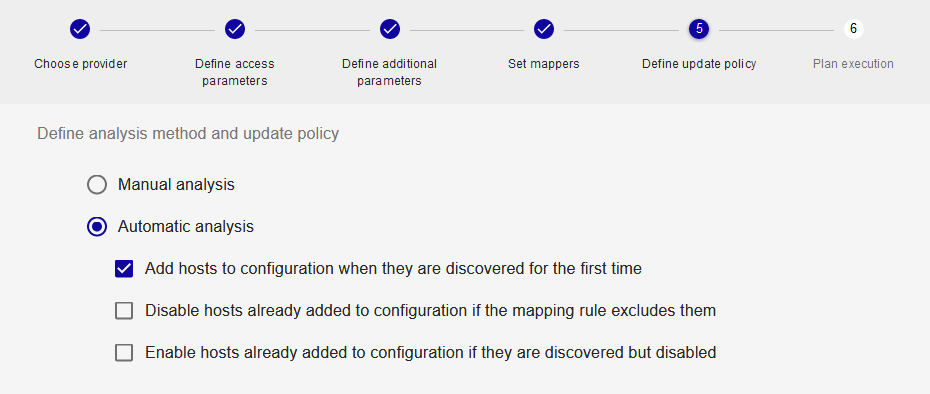
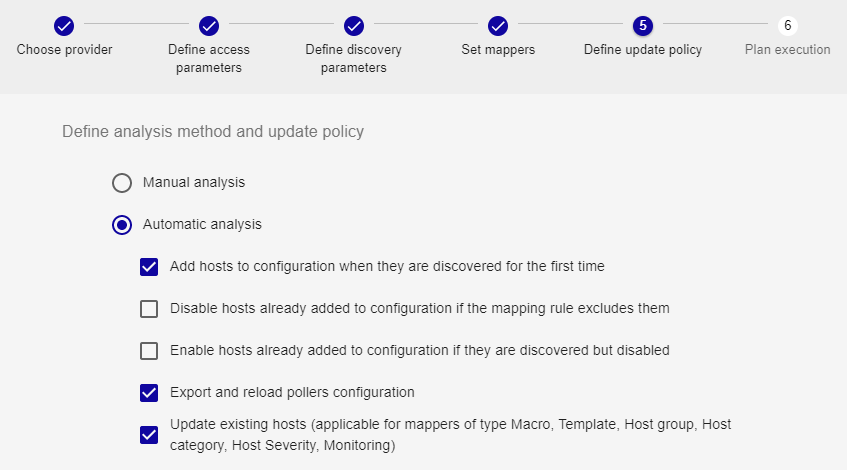
Host disco updates hosts + conf auto export

diff --git a/i18n/fr/docusaurus-plugin-content-docs/version-22.04/monitoring/discovery/hosts-discovery.md b/i18n/fr/docusaurus-plugin-content-docs/version-22.04/monitoring/discovery/hosts-discovery.md
@@ -36,7 +36,7 @@ Un assistant s'ouvre.
 
 ### Étape 2 : Définir des paramètres d'accès
 
-Définissez le serveur de supervision depuis lequel sera faite la découverte :
+Définissez le serveur de supervision depuis lequel sera faite la découverte (celui-ci peut être surchargé à l'aide de [modificateurs](#comment-utiliser-les-modificateurs)) :
 
 ![image](../../assets/monitoring/discovery/host-discovery-wizard-step-2.png)
 
@@ -62,20 +62,21 @@ ressemblerait le résultat de la découverte :
 
 ### Étape 5 : Définir les politiques d'analyse et de mise à jour
 
-- **Analyse manuelle** : Une fois la tâche de découverte exécutée, dans la liste des hôtes découverts, l'utilisateur choisira manuellement quels 
-    hôtes ajouter à la page **Configuration > Hôtes > Hôtes** (voir [Analyser le résultat d'une tâche de découverte](#analyser-le-résultat-dune-tâche-de-découverte)).
+- **Analyse manuelle** : Une fois la tâche de découverte exécutée, dans la liste des hôtes découverts,
+l'utilisateur choisira manuellement quels hôtes ajouter à la page **Configuration > Hôtes > Hôtes**
+(voir [Analyser le résultat d'une tâche de découverte](#analyser-le-résultat-dune-tâche-de-découverte)).
 
-- **Analyse automatique** : L'analyse traitera le résultat automatiquement selon l'option sélectionnée (au moins une option doit être cochée) :
+- **Analyse automatique** : L'analyse traitera le résultat automatiquement selon l'option sélectionnée (au moins une option parmi les 3 premières doit être cochée) :
 
     - **Ajouter les hôtes à la configuration quand ils sont découverts pour la
           première fois** : tous les hôtes détectés pour la première fois seront créés automatiquement dans 
           la page **Configuration > Hôtes > Hôtes**.
 
     - **Désactiver les hôtes déjà ajoutés à la configuration si la règle de
-          modification les exclut** : les ressources qui ont été ajoutées à un moment seront désactivées 
-          dans la configuration Centreon s'ils correspondent à une nouvelle règle d'exclusion.
+          modification les exclut** : les hôtes déjà supervisés seront désactivés
+          s'ils correspondent à une nouvelle règle d'exclusion lorsque la tâche de découverte est exécutée à nouveau.
 
-        >Le fait que des hôtes soient non découverts (ou plus découverts) ne
+        > Le fait que des hôtes soient non découverts (ou plus découverts) ne
         > désactivera pas les hôtes dans la configuration Centreon. Seuls les hôtes
         > découverts et dans le même temps exclus seront désactivés (voir
         > modificateur [exclusion](#exclusion)).
@@ -83,9 +84,13 @@ ressemblerait le résultat de la découverte :
     - **Activer les hôtes déjà ajoutés à la configuration si ils sont découverts
           mais désactivés** :  les hôtes déjà ajoutés à la configuration mais désactivés seront réactivés
 
+    - **Exporter et recharger la configuration des collecteurs** : une fois les hôtes créés ou mis à jour, [la configuration sera exportée](../monitoring-servers/deploying-a-configuration.md) automatiquement, ce qui veut dire que les hôtes seront supervisés ou mis à jour directement, sans devoir intervenir manuellement.
+
+    - **Modifier les hôtes existants** : si vous modifiez les modificateurs et exéctuez la tâche à nouveau, les hôtes existants seront mis à jour (voir [Éditer une tâche de découverte](#éditer-une-tâche-de-découverte)).
+
         ![image](../../assets/monitoring/discovery/host-discovery-wizard-step-5-2.png)
 
-        Voir l'[exemple ci-dessous](#exemples) pour mieux comprendre le fonctionnement de ces options.
+        Voir l'[exemple ci-dessous](#exemples) pour mieux comprendre le fonctionnement des 3 premières options.
 
 ### Étape 6 : Définir l'exécution
 
@@ -117,7 +122,7 @@ ressemblerait le résultat de la découverte :
 
         ![image](../../assets/monitoring/discovery/host-discovery-wizard-step-6-minute.png)
 
-Cliquez sur **TERMINER** à la dernière étape de l'assistant pour ajouter et planifier la tâche. La tâche apparaît dans la liste des tâches de découverte. Voir [Analyser le résultat d'une tâche de découverte](#analyser-le-résultat-dune-tâche-de-découverte).
+Cliquez sur **TERMINER** à la dernière étape de l'assistant pour créer la tâche et l'exécuter ou la planifier. La tâche apparaît dans la liste des tâches de découverte. Voir [Analyser le résultat d'une tâche de découverte](#analyser-le-résultat-dune-tâche-de-découverte).
 
 ## Gérer les tâches de découverte
 
@@ -147,12 +152,10 @@ Plusieurs actions peuvent être réalisées sur les tâches :
 | Icône                                                                          | Action                                                                                                                     |
 |--------------------------------------------------------------------------------|----------------------------------------------------------------------------------------------------------------------------|
 | ![image](../../assets/monitoring/discovery/host-discovery-force-execution.png) | **Forcer l'exécution** : réexécuter une tâche                                                                              |
-| ![image](../../assets/monitoring/discovery/host-discovery-edit.png)            | Éditer une tâche                                                                                                           |
 | ![image](../../assets/monitoring/discovery/host-discovery-delete.png)          | Supprimer une tâche. Seule la tâche sera supprimée : les hôtes ayant déjà été ajoutés à la configuration seront conservés. |
 | ![image](../../assets/monitoring/discovery/host-discovery-pause.png)           | Mettre en pause une tâche planifiée                                                                                        |
 | ![image](../../assets/monitoring/discovery/host-discovery-resume.png)          | Reprendre une tâche mise en pause                                                                                          |
 | ![image](../../assets/monitoring/discovery/host-discovery-goto-results.png)    | accéder aux résultats de la tâche de découverte                                                                            |
-
 
 ## Analyser le résultat d'une tâche de découverte
 
@@ -160,14 +163,16 @@ Plusieurs actions peuvent être réalisées sur les tâches :
 
     ![image](../../assets/monitoring/discovery/host-discovery-hosts-listing.png)
 
-2. Si vous le souhaitez, vous pouvez éditer les [modificateurs](#comment-utiliser-les-modificateurs) liés à la tâche en cliquant sur le bouton d'édition : ![image](../../assets/monitoring/discovery/host-discovery-edit.png#thumbnail1)
+2. Si vous le souhaitez, vous pouvez éditer les [modificateurs](#comment-utiliser-les-modificateurs) liés à la tâche en cliquant sur le bouton d'édition : <img src={require('../../assets/monitoring/discovery/host-discovery-edit.png').default} style={{width:'24px', marginBottom:'-6px'}} />
 
-    Les changements seront appliqués directement à la liste des résultats. 
+    Les changements seront appliqués directement à la liste des résultats lorsque vous cliquerez sur l'icône **Sauvegarder** en haut à droite du panneau.
 
-    Attention, éditer les modificateurs après l'exécution de la tâche de découverte n'a de sens que si les hôtes n'ont pas encore été ajoutés à la configuration. Les changements de modificateurs au niveau de la tâche de découverte ne sont pas pris en compte pour les hôtes déjà créés.
-    
-3. Si vous avez configuré une découverte manuelle à l'étape 5 de l'assistant, sélectionnez les hôtes que vous voulez ajouter à la configuration, puis cliquez
-sur le bouton d'enregistrement : ![image](../../assets/monitoring/discovery/host-discovery-hosts-save.png#thumbnail1)
+    - Si vous aviez sélectionné **Analyse manuelle** à l'étape 5 de l'assistant, attention : éditer les modificateurs après l'exécution de la tâche de découverte n'a de sens que si les hôtes n'ont pas encore été ajoutés à la configuration. Les changements de modificateurs au niveau de la tâche de découverte ne sont pas pris en compte pour les hôtes déjà créés.
+
+    - Si vous aviez sélectionné **Analyse automatique** et **Modifier les hôtes existants** à l'étape 5 de l'assistant, les hôtes seront mis à jour quand vous réexécuterez la tâche (voir [Éditer une tâche de découverte](#éditer-une-tâche-de-découverte)).
+
+3. Si vous avez sélectionné **Analyse manuelle** à l'étape 5 de l'assistant, sélectionnez les hôtes que vous voulez ajouter à la configuration, puis cliquez
+sur le bouton d'enregistrement : sur le bouton d'enregistrement : ![image](../../assets/monitoring/discovery/host-discovery-hosts-save.png#thumbnail1)
 
   Les hôtes sont alors créés ainsi que les services liés à leurs modèles d'hôte.
 
@@ -179,16 +184,37 @@ sur le bouton d'enregistrement : ![image](../../assets/monitoring/discovery/host
 liste, retournez à la liste des tâches et regardez si une erreur est
 survenue pendant la tâche d'enregistrement.
 
-5. [Déployez](../monitoring-servers/deploying-a-configuration.md) la configuration. Les nouveaux hôtes sont maintenant supervisés.
+5. Dans les cas suivants, [déployez la configuration](../monitoring-servers/deploying-a-configuration.md) :
+
+   - si l'option **Analyse manuelle** a été sélectionnée à l'étape 5 de l'assistant
+   - si l'option **Analyse automatique** a été sélectionnée à l'étape 5 de l'assistant, mais que l'option **Exporter et recharger la configuration des collecteurs** était décochée.
+
+   Les nouveaux hôtes sont maintenant supervisés.
 
 ## Éditer une tâche de découverte
 
-1. À la page **Configuration > Hôtes > Découverte**, cliquez dans la ligne 
+Certaines tâches de découverte peuvent être éditées :
+
+- Si la tâche est réglée sur **Analyse automatique** et que vous avez sélectionné **Modifier les hôtes existants** à l'étape 5 de l'assistant, vous pouvez éditer la tâche et la réexécuter : les résultats de la tâche seront mis à jour. Pour réexécuter une tâche, allez à la page **Configuration > Hôtes > Découverte**, survolez la tâche puis cliquez sur **Forcer l'exécution**.
+- Une tâche réglée sur **Analyse manuelle** et dont les hôtes sont déjà supervisés ne sera pas mise à jour si celle-ci est éditée et exécutée à nouveau.
+
+1. À la page **Configuration > Hôtes > Découverte**, cliquez dans la ligne
 de la tâche désirée. Un panneau apparaît à droite.
 
-2. Depuis ce panneau, modifiez les paramètres de la tâche. Si vous éditez des modificateurs, les résultats de la tâche seront mis à jour immédiatement.
+2. Depuis ce panneau, modifiez les paramètres de la tâche.
 
-    Attention, éditer les modificateurs après l'exécution de la tâche de découverte n'a de sens que si les hôtes n'ont pas encore été ajoutés à la configuration. Les changements de modificateurs au niveau de la tâche de découverte ne sont pas pris en compte pour les hôtes déjà créés.
+   Si la tâche est réglée sur **Analyse automatique**, vous pouvez mettre à jour certaines propriétés des hôtes en utilisant les modificateurs. Vous pouvez :
+
+   - ajouter des modèles, des groupes d'hôtes ou des catégories d'hôtes
+   - mettre à jour ou définir la sévérité (il ne peut y avoir qu'une sévérité)
+   - mettre à jour ou définir la valeur d'une macro (une macro ne peut avoir qu'une valeur)
+   - mettre à jour le serveur de supervision (il ne peut y en avoir qu'un).
+
+  Afin de préserver la cohérence des données et la traçabilité des actions, le nom, l'alias et l'adresse IP d'un hôte ne peuvent pas être modifiés (c'est-à-dire les données apportées par les modificateurs de type **Property**).
+
+  Une fois les modificateurs édités, si vous aviez sélectionné **Modifier les hôtes existants** à l'étape 5 de l'assistant, les hôtes seront mis à jour lorsque la tâche de découverte sera réexécutée. Si vous n'aviez pas sélectionné cette option, exécuter la tâche de nouveau ajoutera seulement les nouveaux hôtes découverts à la supervision : les hôtes existants ne seront pas mis à jour.
+
+  Si le module d'autodécouverte découvre un hôte avec un nom déjà existant, ayant été créé manuellement à la page **Configuration > Hôtes > Hôtes**, cet hôte sera également mis à jour par le module d'autodécouverte, même s'il n'a pas été créé par autodécouverte.
 
 2. Cliquez sur l'icône de sauvegarde en haut à droite du panneau : ![image](../../assets/monitoring/discovery/host-discovery-save.png#thumbnail2)
 
@@ -196,7 +222,7 @@ de la tâche désirée. Un panneau apparaît à droite.
 
 Les modificateurs permettent de :
 
-- définir la configuration des hôtes qui seront créés, en faisant correspondre une valeur découverte sur l'hôte (un attribut) à un champ dans Centreon. La liste des attributs dépend du fournisseur. 
+- définir la configuration des hôtes qui seront créés, en faisant correspondre une valeur découverte sur l'hôte (un attribut) à un champ dans Centreon. La liste des attributs dépend du fournisseur.
 
 - inclure/exclure des hôtes de la liste des résultats.
 
@@ -227,11 +253,6 @@ de ces attributs avec une ou plusieurs chaînes de caractères personnalisées.
 
 ![image](../../assets/monitoring/discovery/host-discovery-mappers-concatenation.gif)
 
->Attention, ajouter, éditer ou supprimer des modificateurs après l'exécution de la
- tâche de découverte n'a de sens que si les hôtes n'ont pas encore été ajoutés à la
- configuration. Les changements de modificateurs au niveau de la tâche de découverte 
- ne sont pas pris en compte pour les hôtes déjà créés.
-
 ### Ajouter un modificateur
 
 1. Depuis l'étape quatre de l'assistant de création d'une tâche, ou depuis le
@@ -246,10 +267,10 @@ tous les champs requis.
 ### Éditer un modificateur
 
 1. Depuis l'étape quatre de l'assistant de création d'une tâche, ou depuis
-le panneau d'édition dans la section **Modificateurs**, cliquez sur l'icône 
+le panneau d'édition dans la section **Modificateurs**, cliquez sur l'icône
 d'édition : ![image](../../assets/monitoring/discovery/host-discovery-edit.png#thumbnail1)
 
-2. Modifiez n'importe quel champ ou le type de modificateur lui-même.
+2. Modifiez n'importe quel champ ou le type de modificateur lui-même. Voir [Éditer une tâche de découverte](#éditer-une-tâche-de-découverte).
 
 3. Cliquez sur **ENREGISTRER** pour enregistrer le modificateur.
 

diff --git a/versioned_docs/version-22.04/monitoring/discovery/hosts-discovery.md b/versioned_docs/version-22.04/monitoring/discovery/hosts-discovery.md
@@ -35,7 +35,7 @@ See also our tutorial on [how to detect AWS EC2 instances](../../getting-started
 
 ### Step 2: Define access and discovery parameters
 
-Define the monitoring server from which the discovery will be made:
+Define the default monitoring server from which the discovery will be made (this can be overriden later using [mappers](#how-to-use-mappers)):
 
 ![image](../../assets/monitoring/discovery/host-discovery-wizard-step-2.png)
 
@@ -62,23 +62,24 @@ discovery results could look like:
 
 ### Step 5: Define analysis and update policies
 
-- **Manual analysis**: Once the discovery job is executed, in the list of discovered hosts, you will choose manually which 
-    hosts should be added to the page **Configuration > Hosts > Hosts** (see [Analyze the results of a discovery job](#analyze-the-results-of-a-discovery-job)).
+- **Manual analysis**: Once the discovery job is executed, in the list of discovered hosts, you will choose manually which hosts should be added to page **Configuration > Hosts > Hosts** (see [Analyze the results of a discovery job](#analyze-the-results-of-a-discovery-job)).
 
-- **Automatic analysis**: The results will be processed automatically according to the selected policy (you must choose at least one):
+- **Automatic analysis**: The results will be processed automatically according to the selected policy (you must choose at least one from the first 3):
 
   - **Add hosts to configuration when they are discovered for the first time**: all hosts that are detected for the first time are automatically created in the **Configuration > Hosts > Hosts** page.
-  - **Disable hosts already added to configuration if the mapping rule excludes them**: ressources that have been added to the configuration will be disabled if they match a new **Exclude** mapper.
+  - **Disable hosts already added to configuration if the mapping rule excludes them**: resources that are already being monitored will be disabled if they match a new **Exclude** mapper when you run the job again.
       > Note: not discovered hosts (or no longer discovered hosts) will not be
       > disabled in the Centreon configuration. Only hosts that are discovered and at the same
       > time excluded can be disabled in the configuration (see
       > [exclusion](#exclusion) mapper).
   - **Enable hosts already added to configuration if they are discovered but disabled**: hosts that have already been added to the configuration but are in a disabled state will be enabled again.
+  - **Export and reload pollers configuration**: once the hosts have been created or updated, the [configuration will be exported](../monitoring-servers/deploying-a-configuration.md) automatically, which means that the hosts will be monitored or updated straightaway, without any need for manual action.
+  - **Update existing hosts**: if you modify the mappers and run the job again, existing hosts will be updated (see [Edit a discovery job](#edit-a-discovery-job)).
 
   ![image](../../assets/monitoring/discovery/host-discovery-wizard-step-5-2.png)
 
   Read the [example](#dynamically-update-your-configuration) below to better
-understand the scope of these policies.
+understand the scope of the first 3 policies.
 
 ### Step 6: Plan execution
 
@@ -110,7 +111,7 @@ understand the scope of these policies.
 
     ![image](../../assets/monitoring/discovery/host-discovery-wizard-step-6-minute.png)
 
-Click on **FINISH** to add and execute or schedule the discovery job. The job appears in the list of discovery jobs.
+Click on **FINISH** to create the discovery job and to execute or schedule it. The job appears in the list of discovery jobs.
 See section [Analyze the results of a discovery job](#analyze-the-results-of-a-discovery-job).
 
 ## Manage discovery jobs
@@ -140,7 +141,6 @@ Several actions can be done on jobs:
 | Icon                                                                            | Action                                                                                                      |
 |---------------------------------------------------------------------------------|-------------------------------------------------------------------------------------------------------------|
 | ![image](../../assets/monitoring/discovery/host-discovery-force-execution.png)  | **Force execution**: re-execute a job                                                                       |
-| ![image](../../assets/monitoring/discovery/host-discovery-edit.png)             | Edit a job                                                                                                  |
 | ![image](../../assets/monitoring/discovery/host-discovery-delete.png)           | Delete a job. Only the job will be deleted: the hosts you have added to the configuration will still exist. |
 | ![image](../../assets/monitoring/discovery/host-discovery-pause.png)            | Pause a scheduled job                                                                                       |
 | ![image](../../assets/monitoring/discovery/host-discovery-resume.png)           | Resume a paused job                                                                                         |
@@ -155,12 +155,11 @@ next to the status of a **Finished** job to visualize the results.
 
 2. If you want, you can edit the mappers linked to this job by clicking the **Edit** icon: ![image](../../assets/monitoring/discovery/host-discovery-edit.png#thumbnail1)
 
-    The results will be updated automatically.
-    
-    Warning: editing mappers after a discovery job has been executed only makes sense if
-    the hosts have not yet been added to your monitoring configuration (either manually 
-    or automatically). Changes made to mappers in the discovery task are not taken into
-    account for hosts that have already been created.
+    The results will be updated automatically in the preview once you click on the **Save** icon at the top right of the panel.
+
+    - If the job was set to **Manual analysis** at step 5 of the wizard, bear in mind that editing mappers after a discovery job has been executed only makes sense if the hosts have not yet been added to your monitoring configuration.
+
+    - If the job was set to **Automatic analysis** at step 5 of the wizard and **Update existing hosts** was selected, the hosts will be updated when you re-run the job (see [Edit a discovery job](#edit-a-discovery-job)).
 
 3. If your job was set to **Manual analysis** at step 5 of the wizard, select the hosts you want to add to the configuration and click on the **Save**
 button: ![image](../../assets/monitoring/discovery/host-discovery-hosts-save.png#thumbnail1)
@@ -174,26 +173,46 @@ button: ![image](../../assets/monitoring/discovery/host-discovery-hosts-save.png
   If the hosts you selected are not visible in the configuration, go back to the
 list of jobs and see if an error occured during the saving task.
 
-5. [Deploy](../monitoring-servers/deploying-a-configuration.md) the configuration. The new hosts are now monitored.
+5. In the following cases, [deploy](../monitoring-servers/deploying-a-configuration.md) the configuration:
+
+   - if your job was set to **Manual analysis** at step 5 of the wizard
+   - if your job was set to **Automatic analysis** at step 5 of the wizard, but **Export and reload pollers configuration** was not selected.
+
+  The new hosts are now monitored.
 
 ## Edit a discovery job
+
+Some discovery jobs can be edited:
+
+- if you have set the job to **Automatic analysis** and you have selected **Update existing hosts** at step 5 of the wizard, you can edit and rerun the job: the results of the job will be updated. To rerun the job, go to page **Configuration > Hosts > Discovery**, hover over the job and then click **Force execution**.
+- a job set to **Manual analysis** whose hosts are already monitored will not be updated if it is edited and run again.
 
 1. On the **Configuration > Hosts > Discovery** page, click on the discovery job you want. A panel appears on the right.
 
     ![image](../../assets/monitoring/discovery/host-discovery-edit-job.png)
 
-2.  In this panel, edit the settings of the job. If you edit mappers, the results of the job will be updated immediately.
+2. In this panel, edit the settings of the job.
 
-    Warning: editing mappers after a discovery job has been executed only makes sense if
-    the hosts have not yet been added to your monitoring configuration (either manually or automatically). Changes made to mappers in the discovery task are not taken into account for hosts that have already been created.
+   If your job is set to **Automatic analysis**, you can update some host properties using mappers. You can:
+
+   - add templates, hostgroups or host categories
+   - update or define the severity (there can be only one severity)
+   - update or define the value of a macro (there can be only one value for a macro)
+   - update the monitoring server (there can be only one monitoring server)
+
+  To preserve the consistency of data and the traceability of actions, the name, alias and IP address of the host cannot be updated (i.e. data brought by **Property** mappers).
+
+  When you edit mappers, if you selected **Update existing hosts** at step 5 of the wizard, the hosts will be updated. If you did not select this option, running the job again will only add new hosts to the monitoring: existing hosts will not be updated.
+
+  If the autodiscovery module discovers hosts with a name that already exists and that you created manually on page **Configuration > Hosts > Hosts**, those hosts will also be updated by the autodiscovery module, even if they weren't discovered by it.
 
 3. Click on the **Save** icon at the top right of the panel: ![image](../../assets/monitoring/discovery/host-discovery-save.png#thumbnail2)
 
 ## How to use mappers
 
-Mappers allow you to  :
+Mappers allow you to:
 
-- Define how the future hosts will be configured, by mapping a value discovered on the host (an attribute) to a field in Centreon. The list of attributes depends on the discovery provider. 
+- Define how the future hosts will be configured, by mapping a value discovered on the host (an attribute) to a field in Centreon. The list of attributes depends on the discovery provider.
 
 - Include/exclude hosts from the list of results.
 
@@ -225,11 +244,6 @@ From version 21.04, mappers **Property**, **Macro**, **Host group** and **Host c
 
 ![image](../../assets/monitoring/discovery/host-discovery-mappers-concatenation.gif)
 
->Warning: editing mappers after a discovery job has been executed only makes sense
->if the hosts have not yet been added to your monitoring configuration (either manually
->or automatically). Changes made to mappers in the discovery task are not taken into account
->for hosts that have already been created.
-
 ### Add a mapper
 
 1. In the job wizard at step four, or on the edition panel in the **Mappers**
@@ -245,7 +259,7 @@ field.
 1. In the job wizard at step four, or on the edition panel in the **Mappers**
 section, click on the **Edit** icon: ![image](../../assets/monitoring/discovery/host-discovery-edit.png#thumbnail1)
 
-2. Edit the fields you want, or even the type of mapper.
+2. Edit the fields you want, or even the type of mapper. See [Edit a discovery job](#edit-a-discovery-job).
 
 3. Click on **SAVE** to save the mapper.
 

diff --git a/versioned_docs/version-22.04/monitoring/discovery/introduction.md b/versioned_docs/version-22.04/monitoring/discovery/introduction.md
@@ -7,12 +7,11 @@ title: Introduction
 > [license](../../administration/licenses.md) key. To purchase one and retrieve the necessary repositories, contact
 > [Centreon](mailto:sales@centreon.com).
 
-
-The Auto Discovery module allows you to get a list of new hosts and services and to create them 
+The Auto Discovery module allows you to get a list of new hosts and services and to create them
 automatically in your Centreon platform. The discovery is done by discovery providers, that are included
 within [Plugin Packs](../pluginpacks.md).
 
-- This discovery mechanism can also be scheduled and executed automatically.
+- This discovery mechanism can also be scheduled and executed automatically. Hosts can be added and monitored without manual action.
 
 - You can also detect that resources are no longer available and automatically disable them in the configuration.
 
@@ -20,7 +19,7 @@ within [Plugin Packs](../pluginpacks.md).
 
 ## How it works
 
-1. Create a discovery job for each type of ressource, using the corresponding [Plugin Pack](../pluginpacks.md). 
+1. Create a discovery job for each type of ressource, using the corresponding [Plugin Pack](../pluginpacks.md).
 For instance, one job to discover ESX nodes and one job to discover virtual machines in a VMWare cluster.
 
   For services, create discovery rules: for instance, one rule to discover network interfaces and one rule

diff --git a/i18n/fr/docusaurus-plugin-content-docs/version-22.04/monitoring/discovery/introduction.md b/i18n/fr/docusaurus-plugin-content-docs/version-22.04/monitoring/discovery/introduction.md
@@ -7,11 +7,11 @@ title: Introduction
 > Pour en acheter une et récupérer les référentiels
 > nécessaires, contactez [Centreon](mailto:sales@centreon.com).
 
-Le module de découverte automatique permet d'obtenir une liste des nouveaux hôtes ou services et, si vous le désirez, 
+Le module de découverte automatique permet d'obtenir une liste des nouveaux hôtes ou services et, si vous le désirez,
 de les créer automatiquement dans Centreon. La découverte se fait
 via des fournisseurs de recherche et des règles de découverte, qui sont inclus dans des [Plugin Packs](../pluginpacks.md).
 
-- La découverte peut être planifiée et exécutée automatiquement, régulièrement.
+- La découverte peut être planifiée et exécutée automatiquement, régulièrement. Des hôtes peuvent être ajoutés à la supervision sans intervention manuelle.
 - Vous pouvez également détecter que des ressources ne
 sont plus disponibles, afin d'éventuellement les désactiver dans la configuration.
 - Les contacts peuvent être associés à une règle de découverte de services pour être avertis en cas de modification de la configuration.
